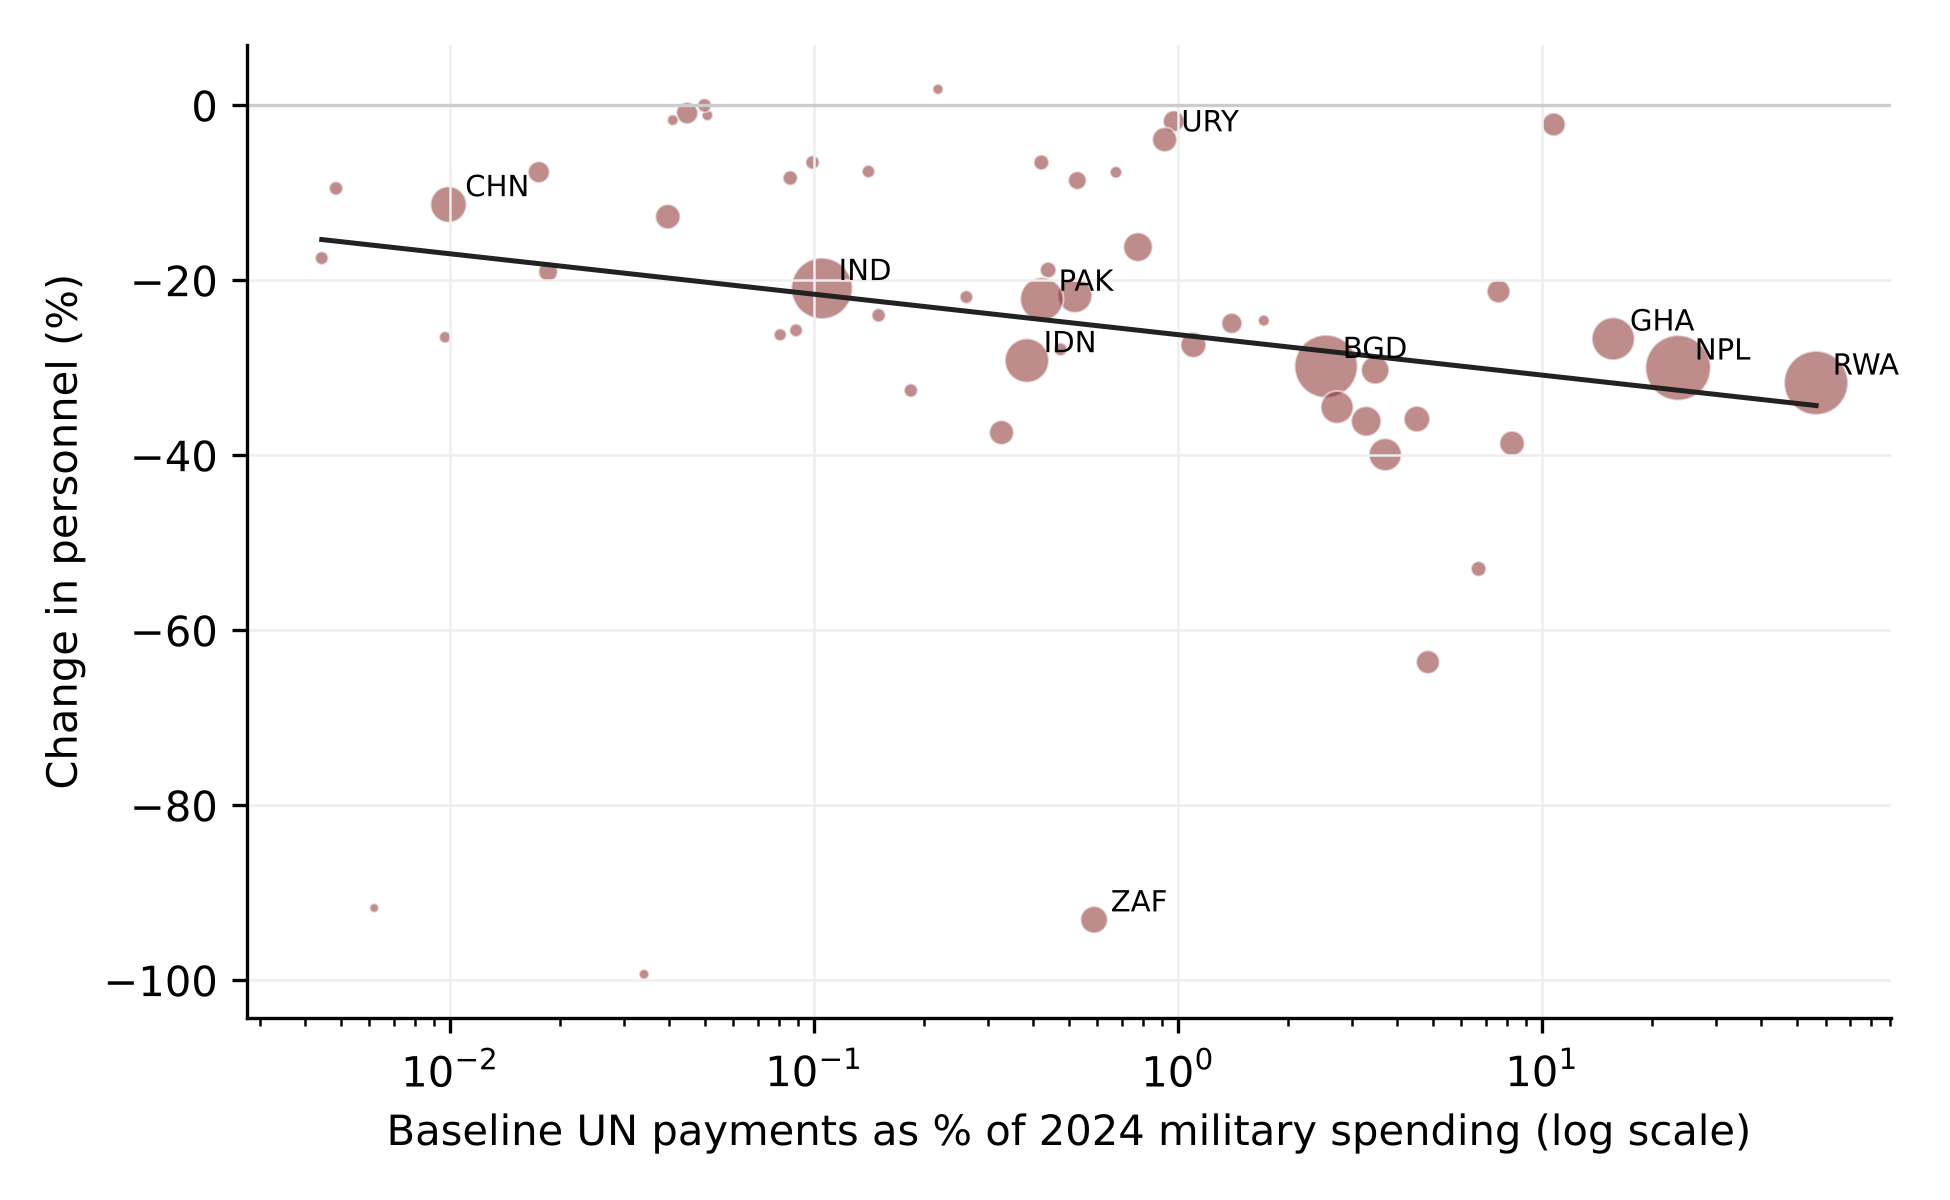
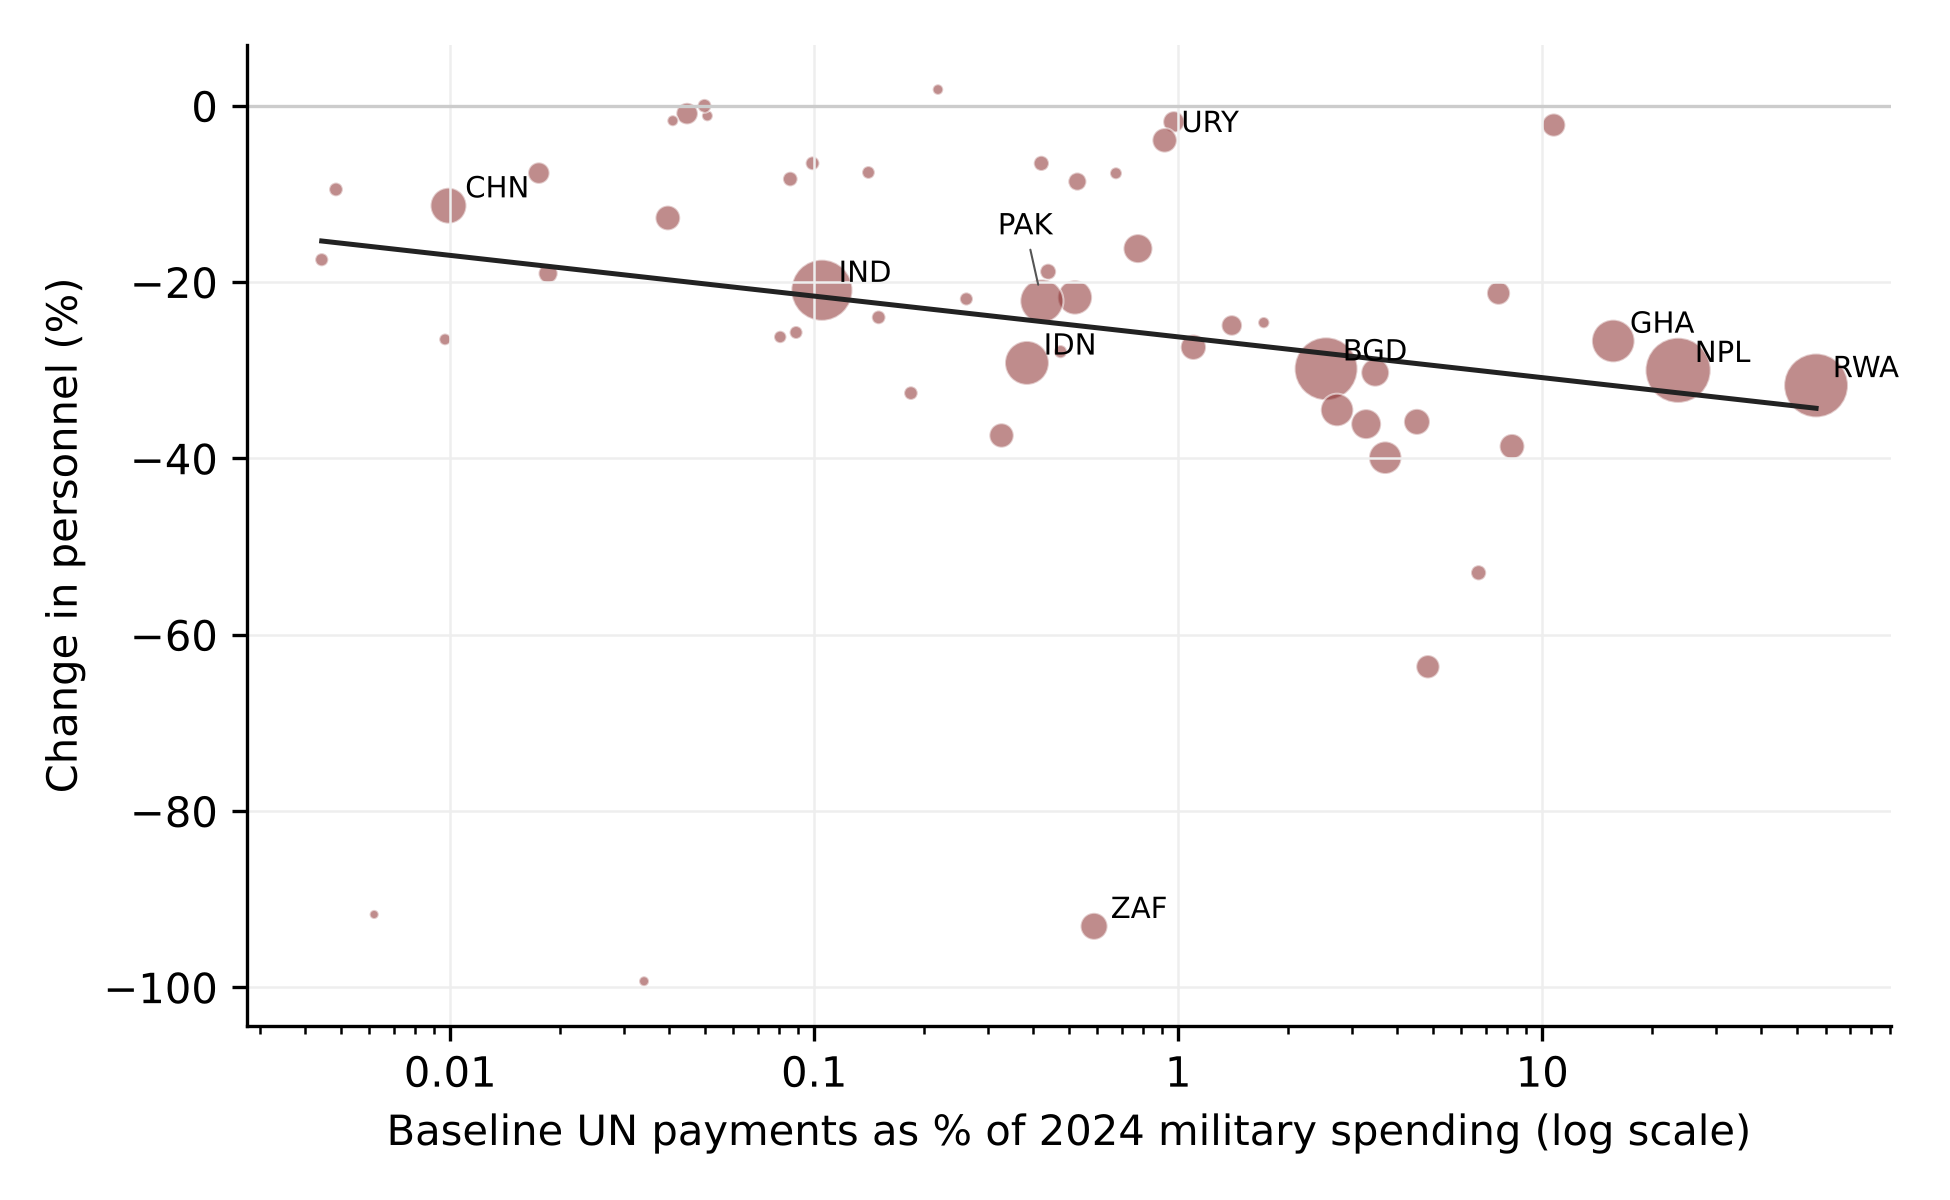
Citation file, X7 in the change log, clearer Figure 3 labels
Figure 3 shows plain numbers on its log axis and a leader line for Pakistan's label.

diff --git a/code/03_figures.py b/code/03_figures.py
@@ -3,6 +3,7 @@
 from pathlib import Path
 
 import matplotlib
+import matplotlib.ticker
 
 matplotlib.use("Agg")
 import matplotlib.pyplot as plt
@@ -72,9 +73,15 @@ r = sm.WLS(s["pct"], X, weights=s["x0"]).fit()
 xs = np.linspace(np.log(s["D"].min()), np.log(s["D"].max()), 50)
 ax.plot(np.exp(xs), r.params["const"] + r.params["D"] * xs, color=INK, lw=1.2)
 for iso in ["RWA", "NPL", "GHA", "BGD", "IND", "CHN", "ZAF", "PAK", "IDN", "URY"]:
-    if iso in s.index:
+    if iso not in s.index:
+        continue
+    if iso == "PAK":  # a leader line, so the label is not read as Morocco's circle next to it
+        ax.annotate(iso, (s.loc[iso, "D"], s.loc[iso, "pct"]), fontsize=7, textcoords="offset points", xytext=(-4, 16),
+                    ha="center", arrowprops=dict(arrowstyle="-", lw=0.5, color="#555555", shrinkA=0, shrinkB=4))
+    else:
         ax.annotate(iso, (s.loc[iso, "D"], s.loc[iso, "pct"]), fontsize=7, xytext=(4, 2), textcoords="offset points")
 ax.set_xscale("log")
+ax.xaxis.set_major_formatter(matplotlib.ticker.FuncFormatter(lambda v, _: f"{v:g}"))
 ax.set_xlabel("Baseline UN payments as % of 2024 military spending (log scale)")
 ax.set_ylabel("Change in personnel (%)")
 ax.axhline(0, color="#CCCCCC", lw=0.8)

diff --git a/plan/analysis_plan.md b/plan/analysis_plan.md
@@ -76,3 +76,4 @@ All tests are two-sided at the 5% level. Regressions are weighted least squares 
 ## Change log
 
 - **30 October 2026, after the main results were seen.** No test, window, measure or check in sections 3 to 5 was changed. Added, and labelled in the paper as not in the plan: H2 with the logarithm of June 2025 personnel as a control; H2 without the four countries with *D* of 10% or more; H2 leaving out each of the ten largest contributors in turn; H1 and H2 without South Africa; and the placebo window (C3) with UNSOM and its successor UNTMIS counted as one mission (the mandate was transferred by Security Council resolution 2753 of 30 October 2024; the definitions above treat UNSOM as closing and UNTMIS as new). The p-values reported use the normal approximation, statsmodels' default for HC1 standard errors.
+- **30 October 2026, later the same day.** Added, also labelled as not in the plan: the cut by contributor size (the ten largest contributors in June 2025, other countries with 100 or more, 20 to 99, under 20) and a weighted quadratic in the logarithm of June 2025 personnel, to compare the result with Coleman and Li (2026).
